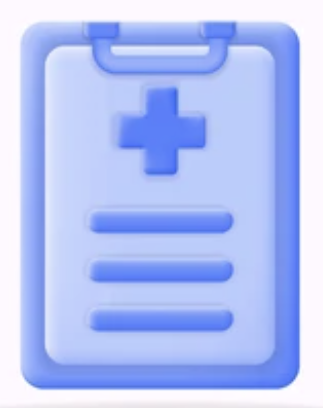
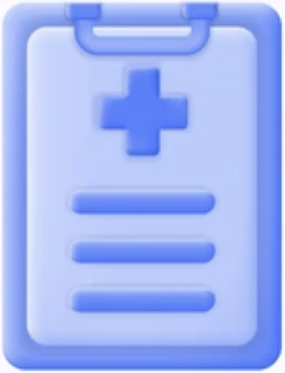
Initial commit

diff --git a/src/views/pages/PrescriptionAnalyzer.jsx b/src/views/pages/PrescriptionAnalyzer.jsx
@@ -39,11 +39,11 @@ const PrescriptionAnalyzer = () => {
         {/* Header */}
         <div className="text-center mb-8">
           <div className="flex items-center justify-center mb-4">
-            <div className="w-16 h-16 bg-gradient-to-br from-blue-500 to-purple-600 rounded-lg flex items-center justify-center">
-              <svg className="w-10 h-10 text-white" viewBox="0 0 24 24" fill="currentColor">
-                <path d="M19 3H5c-1.1 0-2 .9-2 2v14c0 1.1.9 2 2 2h14c1.1 0 2-.9 2-2V5c0-1.1-.9-2-2-2zm-5 14H7v-2h7v2zm3-4H7v-2h10v2zm0-4H7V7h10v2z"/>
-              </svg>
-            </div>
+            <img
+              src="/icon.png"
+              alt="Prescription Analyzer Logo"
+              className="w-16 h-16 object-contain"
+            />
           </div>
           <h1 className="text-4xl font-bold text-gray-900 mb-2">
             Prescription Analyzer
